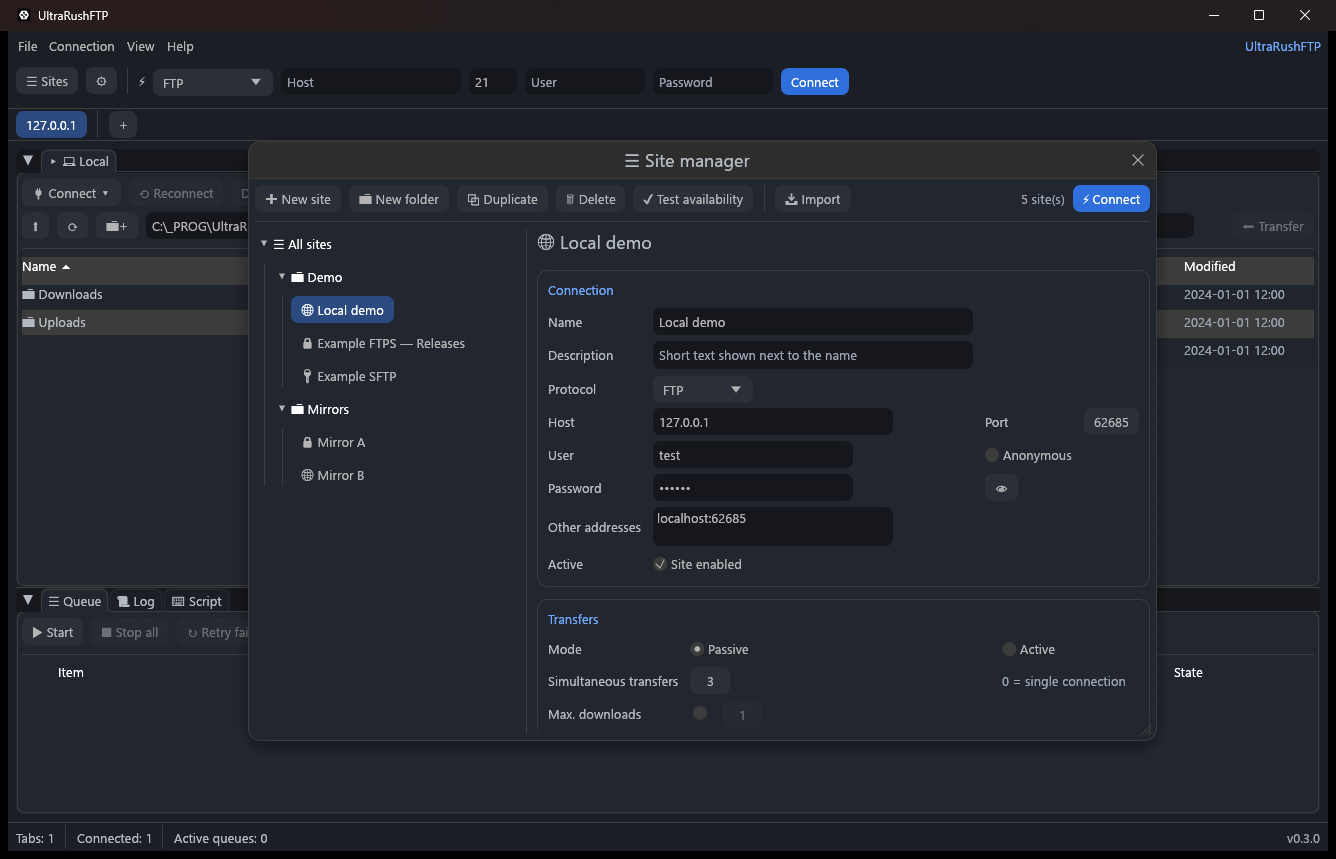
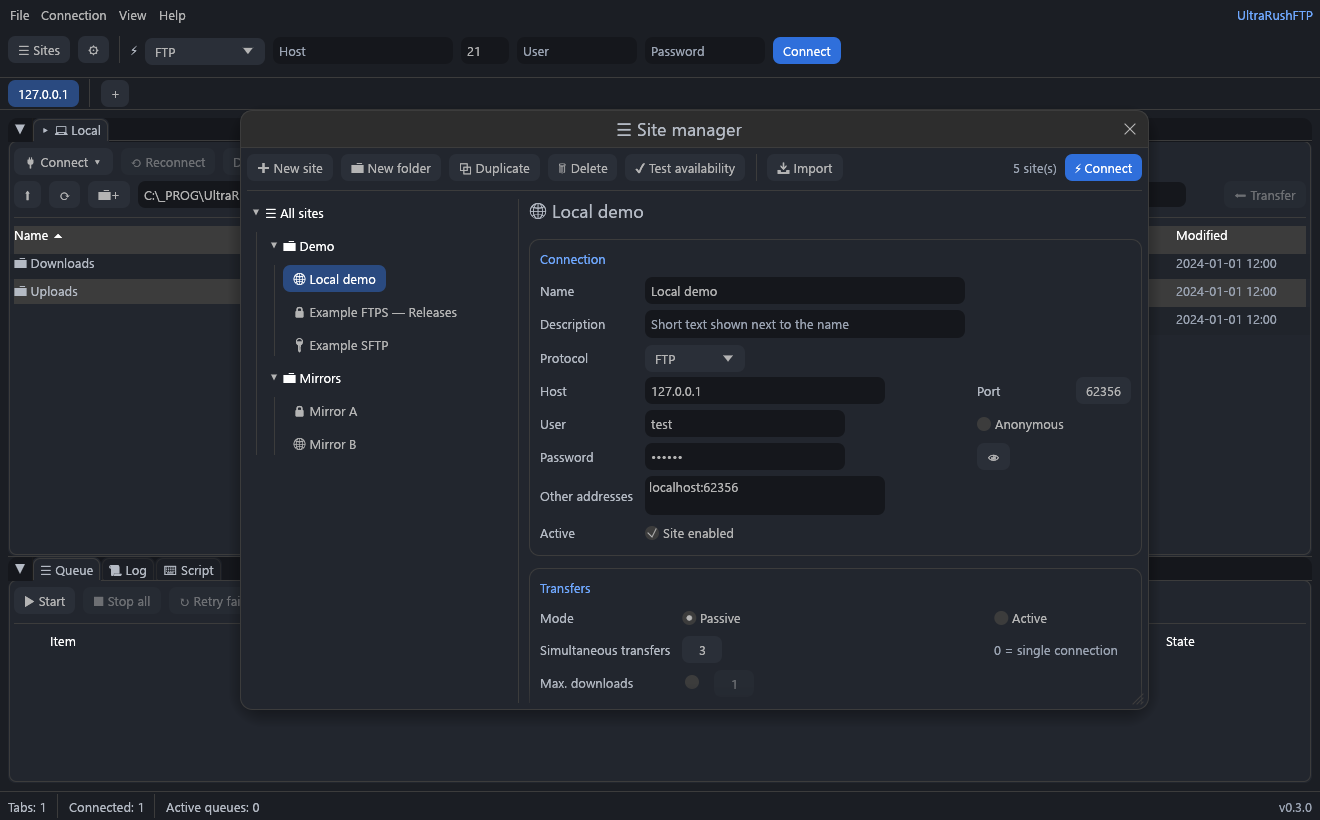
Draw the documentation screenshots off screen
The screenshots are rendered by wgpu through an ignored test of
urftp-gui (app::shots::render_screenshot) that starts the application
like main.rs does: no window opens and nothing takes the focus. The
local panels must start in a demo folder (URUSHFTP_SHOT_HOME). The
script removes each image before rendering it, so a failure is no
longer hidden by an old file.

The test binary keeps a console in release builds, so that its output
can be read; the application itself still has none.

diff --git a/crates/urftp-gui/src/app/shots.rs b/crates/urftp-gui/src/app/shots.rs
@@ -1,0 +1,66 @@
+// Development tool run as an ignored test: a failed unwrap/expect stops the capture.
+#![allow(clippy::unwrap_used, clippy::expect_used)]
+//! Documentation screenshots drawn off screen: the real application, started like
+//! `main.rs` does, rendered by wgpu into a PNG file. No window is opened, so nothing comes
+//! to the foreground. Driven by `scripts/screenshots.ps1`:
+//!
+//! | Variable | Meaning |
+//! |---|---|
+//! | `URUSHFTP_SHOT_OUT` | PNG file to write (the test does nothing without it) |
+//! | `URUSHFTP_SHOT_ARGS` | command-line arguments of the application, one per line |
+//! | `URUSHFTP_SHOT_WAIT` | seconds to let the application run before the capture (default 2) |
+//! | `URUSHFTP_SHOT_HOME` | starting folder of the local panels (required: never the real user folder) |
+//!
+//! The other `URUSHFTP_*` variables (language, theme, windows to open) work as for the
+//! application itself.
+
+use std::time::{Duration, Instant};
+
+use egui_kittest::Harness;
+
+use super::UltraRushApp;
+use crate::cmdline;
+
+/// Inner size of the main window (as in `main.rs`).
+const WINDOW: [f32; 2] = [1320.0, 820.0];
+
+#[test]
+#[ignore = "documentation screenshots: run by scripts/screenshots.ps1"]
+fn render_screenshot() {
+    let Some(out) = std::env::var_os("URUSHFTP_SHOT_OUT") else { return };
+    let home = std::env::var_os("URUSHFTP_SHOT_HOME").expect("URUSHFTP_SHOT_HOME: demo folder of the local panels");
+    super::ui_tests::HOME.set(std::path::PathBuf::from(home)).expect("starting folder set once");
+    let args: Vec<String> = std::env::var("URUSHFTP_SHOT_ARGS")
+        .unwrap_or_default()
+        .lines()
+        .map(str::trim)
+        .filter(|l| !l.is_empty())
+        .map(String::from)
+        .collect();
+    let wait: f64 = std::env::var("URUSHFTP_SHOT_WAIT").ok().and_then(|v| v.parse().ok()).unwrap_or(2.0);
+
+    let startup = cmdline::parse(args);
+    if let Some(d) = &startup.data_dir
+        && let Some(dir) = cmdline::resolve_data_dir(d)
+    {
+        urftp_core::sitestore::set_data_dir(dir);
+    }
+    let rt = tokio::runtime::Builder::new_multi_thread().enable_all().build().unwrap();
+    let mut app = UltraRushApp::new(rt.handle().clone(), startup);
+    // No mIRC link window: the screenshots must not disturb a running FTPRush.
+    app.ipc_enabled = false;
+    let mut harness = Harness::builder().with_size(WINDOW).wgpu().build_eframe(move |cc| {
+        crate::theme::install_fonts(&cc.egui_ctx);
+        crate::theme::apply(&cc.egui_ctx, app.is_dark());
+        app
+    });
+    // Real time: connections, listings and transfers come from the demo server.
+    let start = Instant::now();
+    while start.elapsed().as_secs_f64() < wait {
+        harness.step();
+        std::thread::sleep(Duration::from_millis(30));
+    }
+    harness.run_steps(3);
+    let image = harness.render().expect("off-screen rendering (wgpu)");
+    image.save(&out).expect("write the screenshot");
+}

diff --git a/crates/urftp-gui/src/main.rs b/crates/urftp-gui/src/main.rs
@@ -1,5 +1,6 @@
 //! Graphical interface of UltraRushFTP (egui + egui_dock).
-#![cfg_attr(not(debug_assertions), windows_subsystem = "windows")]
+// Released builds have no console; the test binary keeps one (its output is read).
+#![cfg_attr(all(not(debug_assertions), not(test)), windows_subsystem = "windows")]
 
 mod app;
 mod browser;

diff --git a/crates/urftp-gui/src/app.rs b/crates/urftp-gui/src/app.rs
@@ -34,6 +34,8 @@ use urftp_proto::throttle::RateLimiter;
 
 mod rushapp;
 #[cfg(test)]
+mod shots;
+#[cfg(test)]
 mod ui_tests;
 
 // ====================================================================== model

diff --git a/docs/ARCHITECTURE.md b/docs/ARCHITECTURE.md
@@ -129,7 +129,9 @@ UltraRushFTP exports them. CI checks that both DLLs (32 and 64-bit) export exact
   end-to-end mIRC test (fake mIRC window ↔ DLL ↔ `TfmRush` server) in `crates/urftp-sys`.
 - `cargo run -p urftp-proto --example dev_server` starts the same FTP server for manual
   tests (`test` / `secret`).
-- `scripts/screenshots.ps1` regenerates the documentation images from demo data.
+- `scripts/screenshots.ps1` regenerates the documentation images from demo data. The
+  application is drawn off screen by wgpu (the ignored test `app::shots::render_screenshot`
+  of `urftp-gui`, with `egui_kittest`): no window opens and nothing takes the focus.
 
 ## Functional reference: FTPRush v2
 

diff --git a/docs/ARCHITECTURE.fr.md b/docs/ARCHITECTURE.fr.md
@@ -138,7 +138,9 @@ les exporte. La CI vérifie que les deux DLL (32 et 64 bits) exportent exactemen
 - `cargo run -p urftp-proto --example dev_server` démarre le même serveur FTP pour les
   essais manuels (`test` / `secret`).
 - `scripts/screenshots.ps1` régénère les images de la documentation à partir de données de
-  démonstration.
+  démonstration. L'application est dessinée hors écran par wgpu (le test ignoré
+  `app::shots::render_screenshot` de `urftp-gui`, avec `egui_kittest`) : aucune fenêtre ne
+  s'ouvre et rien ne prend le focus.
 
 ## Référence fonctionnelle : FTPRush v2
 

diff --git a/CHANGELOG.fr.md b/CHANGELOG.fr.md
@@ -10,6 +10,12 @@ la traduction.
 
 ## [Non publié]
 
+### Modifié
+
+- Les captures de la documentation sont dessinées hors écran : aucune fenêtre ne s'ouvre
+  et rien ne prend le focus pendant leur création. Elles ne montrent plus la barre de titre
+  de Windows.
+
 ## [0.3.0] - 2026-11-07
 
 Connexions et sites (bloc G) : maintien de connexion et reconnexion, plusieurs hôtes par

diff --git a/CHANGELOG.md b/CHANGELOG.md
@@ -9,6 +9,11 @@ GitHub release with the same tag.
 
 ## [Unreleased]
 
+### Changed
+
+- The documentation screenshots are drawn off screen: no window opens and nothing takes
+  the focus while they are made. They no longer show the Windows title bar.
+
 ## [0.3.0] - 2026-11-07
 
 Connections and sites (block G): keep alive and reconnection, several hosts per site,
